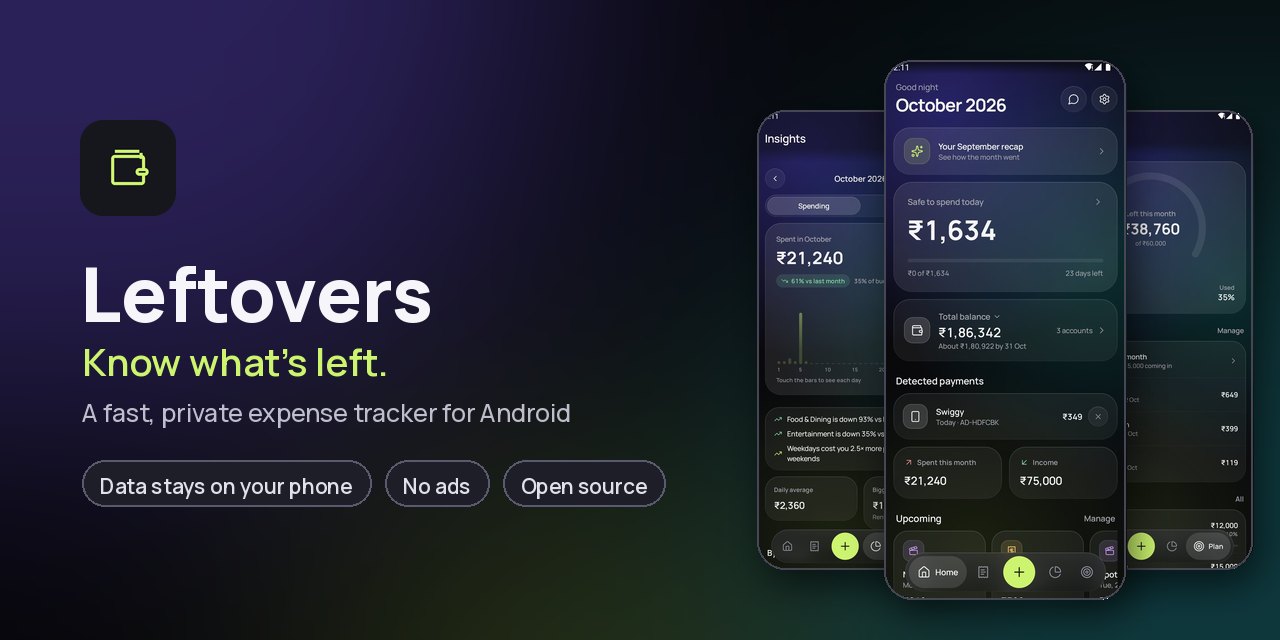
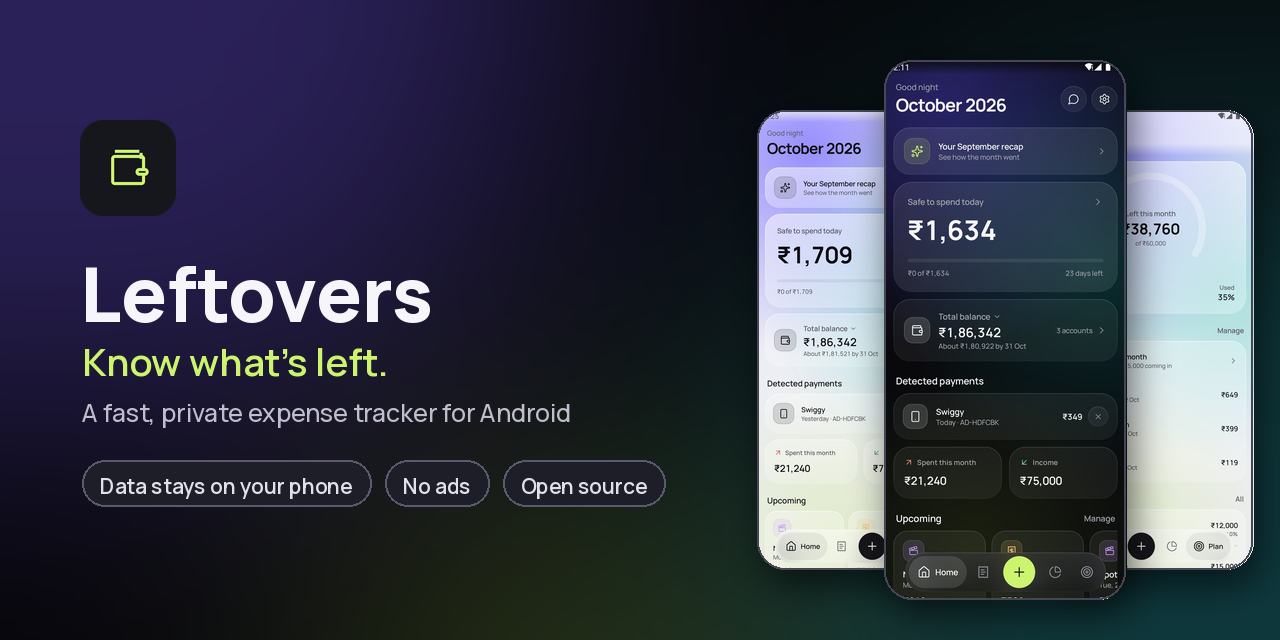
1.5.0

Changed region(s): [[0.875, 0.1562, 1.0, 0.9062], [0.5938, 0.1562, 0.6875, 0.9062]]

diff --git a/app/src/main/java/com/leftovers/app/ui/screens/SettingsScreen.kt b/app/src/main/java/com/leftovers/app/ui/screens/SettingsScreen.kt
@@ -438,7 +438,7 @@ fun SettingsScreen(
                 ) {
                     Icon(Lucide.Lock, contentDescription = null, tint = c.textTertiary, modifier = Modifier.size(14.dp))
                     Spacer(Modifier.width(6.dp))
-                    Text("Stored only on this device · Leftovers 1.4.0", style = MaterialTheme.typography.bodySmall, color = c.textTertiary, textAlign = TextAlign.Center)
+                    Text("Stored only on this device · Leftovers 1.5.0", style = MaterialTheme.typography.bodySmall, color = c.textTertiary, textAlign = TextAlign.Center)
                 }
             }
             item {

diff --git a/CHANGELOG.md b/CHANGELOG.md
@@ -3,7 +3,7 @@
 All notable changes to Leftovers. Download any version from
 [Releases](https://github.com/saisaharsh3/Leftovers/releases).
 
-## Unreleased
+## 1.5.0
 
 - *Glass effects* switch (Settings → Appearance), in dark and light: off gives solid cards without the
   see-through look and lit edges; bars, dialogs and sheets keep their frosted blur
@@ -16,7 +16,7 @@ All notable changes to Leftovers. Download any version from
 - Activity has no swipe actions any more, so entries can't be edited or deleted by accident; tap an entry
   to edit or delete it (#6)
 - Dialogs are real frosted glass: the screen behind blurs and the panel is see-through (Android 12+);
-  on phones without window blur they stay solid so text is easy to read (#6)
+  on phones without window blur they stay solid so text is easy to read. The blur fades in with the dialog (#6)
 - The calendar and bottom sheets (keywords, accounts and others) get the same frosted glass
 - Screen headers (Activity, Insights, Plan and others) no longer end in a dark band: the frost fades out
   softly, so content blurs gradually as it scrolls under the title (#6)
